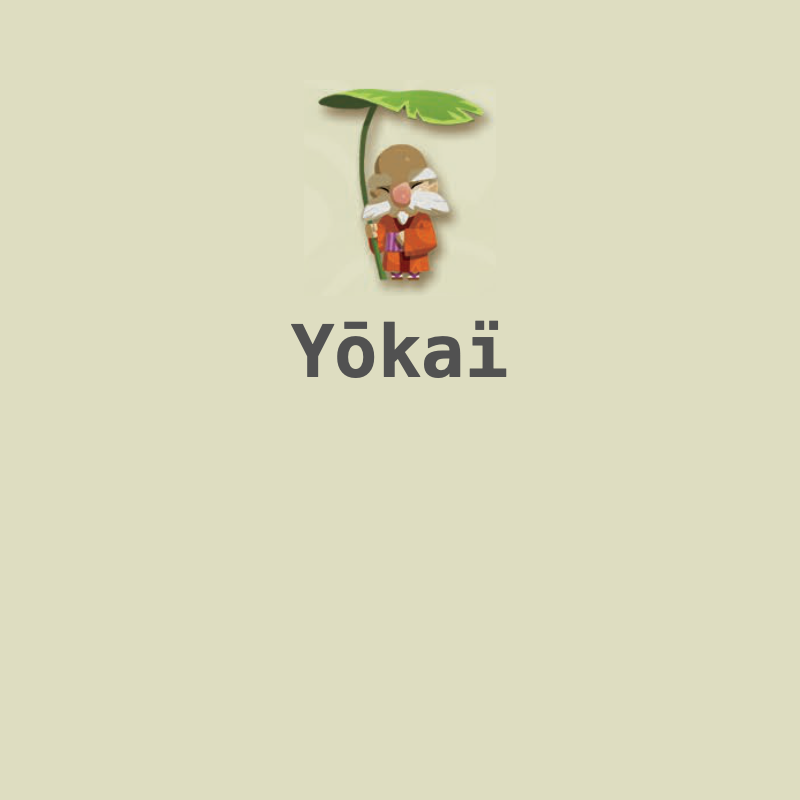
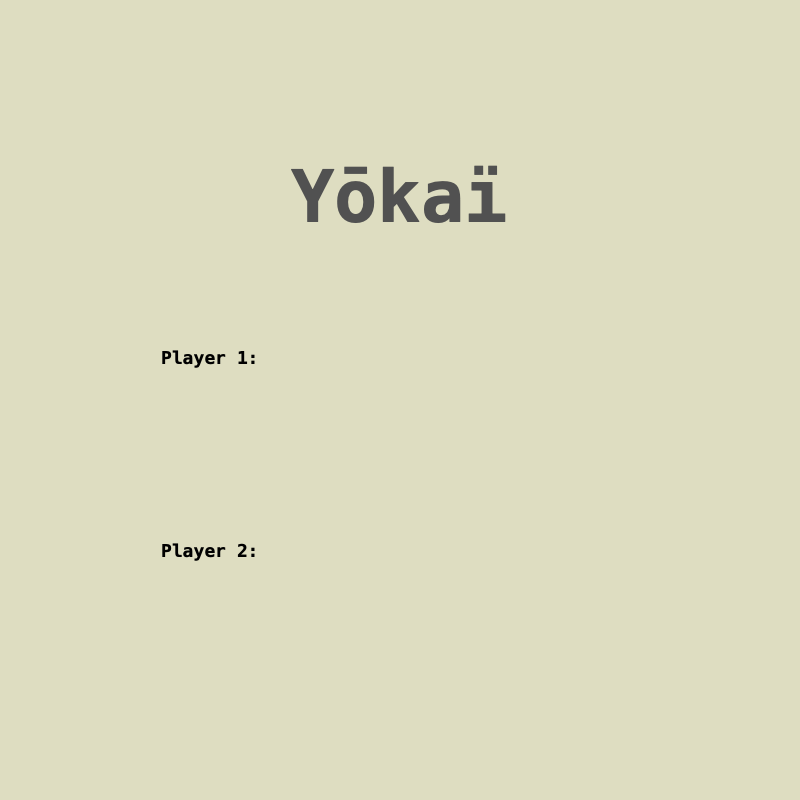
Fleshing out intro widgets

diff --git a/src/view_intro.rs b/src/view_intro.rs
@@ -1,6 +1,7 @@
 // ViewIntro
 // The intro/title view.
 
+use std::collections::HashMap;
 use std::sync::mpsc;
 use std::sync::mpsc::Receiver;
 use std::sync::mpsc::Sender;
@@ -15,8 +16,16 @@ use crate::widget_message::WidgetMessage;
 use crate::widget_slider::*;
 
 const TITLE_CORNER: (f32, f32) = (0., 0.);
-const START_CORNER: (f32, f32) = (675., 730.);
-const EXIT_CORNER: (f32, f32) = (25., 730.);
+const START_CORNER: (f32, f32) = (680., 745.);
+const START_ID: usize = 0;
+const EXIT_CORNER: (f32, f32) = (20., 745.);
+const EXIT_ID: usize = 1;
+const HUMAN_1_CORNER: (f32, f32) = (295., 340.);
+const HUMAN_1_ID: usize = 2;
+const MINIMAX_1_CORNER: (f32, f32) = (395., 340.);
+const MINIMAX_1_ID: usize = 3;
+const MONTE_1_CORNER: (f32, f32) = (515., 340.);
+const MONTE_1_ID: usize = 4;
 
 pub enum ViewIntroMessage {
     ShouldStart,
@@ -30,24 +39,19 @@ pub struct ViewIntro {
     widget_tx: Sender<WidgetMessage>, // copy given to widgets
     widget_rx: Receiver<WidgetMessage>,
 
-    title_tex: Texture2D,
-    start_button: Button,
-    exit_button: Button,
+    background_tex: Texture2D,
+    buttons: HashMap<usize, Button>,
     slider: Slider,
 }
 
 impl ViewIntro {
     pub async fn new(tx: Sender<ViewIntroMessage>) -> Self {
         let (widget_tx, widget_rx) = mpsc::channel();
-
-        let start_tex = AssetLoader::get_texture("start");
-        let exit_tex = AssetLoader::get_texture("exit");
         
         Self {
             tx, widget_tx, widget_rx,
-            title_tex: AssetLoader::get_texture("title"),
-            start_button: Button::new(START_CORNER, start_tex, ButtonMode::Push, 1),
-            exit_button: Button::new(EXIT_CORNER, exit_tex, ButtonMode::Push, 2),
+            background_tex: AssetLoader::get_texture("title"),
+            buttons: HashMap::new(),
 
             slider: Slider::new(
                 (300., 600.), 
@@ -60,8 +64,35 @@ impl ViewIntro {
     }
 
     pub fn prepare(&mut self) {
-        self.start_button.tx = Some(self.widget_tx.clone());
-        self.exit_button.tx = Some(self.widget_tx.clone());
+        let mut texture;
+        let mut button;
+
+        texture = AssetLoader::get_texture("start");
+        button = Button::new(START_CORNER, texture, ButtonMode::Push, START_ID);
+        self.buttons.insert(START_ID, button);
+
+        texture = AssetLoader::get_texture("exit");
+        button = Button::new(EXIT_CORNER, texture, ButtonMode::Push, EXIT_ID);
+        self.buttons.insert(EXIT_ID, button);
+
+        texture = AssetLoader::get_texture("human");
+        button = Button::new(HUMAN_1_CORNER, texture, ButtonMode::Radio, HUMAN_1_ID);
+        self.buttons.insert(HUMAN_1_ID, button);
+
+        texture = AssetLoader::get_texture("minimax");
+        button = Button::new(MINIMAX_1_CORNER, texture, ButtonMode::Radio, MINIMAX_1_ID);
+        self.buttons.insert(MINIMAX_1_ID, button);
+
+        texture = AssetLoader::get_texture("monte_carlo");
+        button = Button::new(MONTE_1_CORNER, texture, ButtonMode::Radio, MONTE_1_ID);
+        self.buttons.insert(MONTE_1_ID, button);
+
+
+        for button in self.buttons.values_mut() {
+            button.color = LIGHTGRAY;
+            button.tx = Some(self.widget_tx.clone());
+        }
+
         self.slider.tx = Some(self.widget_tx.clone());
         self.slider.tick_divisions = 8;
         self.slider.snap_to_tick = true;
@@ -73,8 +104,9 @@ impl ViewIntro {
             self.tx.send(ViewIntroMessage::ShouldExit).expect("Intro message send error.");
         }
         // Widgets. They may send messages.
-        self.start_button.process_events();
-        self.exit_button.process_events();
+        for button in self.buttons.values_mut() {
+            button.process_events();
+        }
         self.slider.process_events();
     }
 
@@ -83,15 +115,35 @@ impl ViewIntro {
         if received.is_ok() {
             match received.unwrap() {
                 WidgetMessage::Pushed(id) => {
-                    if id == self.start_button.id {
-                        self.tx.send(ViewIntroMessage::ShouldStart).expect("Intro message send error.");
-                    }
-                    if id == self.exit_button.id {
-                        self.tx.send(ViewIntroMessage::ShouldExit).expect("Intro message send error.");
+                    match id {
+                        START_ID => {
+                            self.tx.send(ViewIntroMessage::ShouldStart).expect("Intro message send error.");
+                        },
+                        EXIT_ID => {
+                            self.tx.send(ViewIntroMessage::ShouldExit).expect("Intro message send error.");
+                        }
+                        _ => {},
                     }
                 },
                 WidgetMessage::Toggled(id) => {
                     println!("toggled id: {}", id);
+                }
+                WidgetMessage::Selected(id) => {
+                    match id {
+                        HUMAN_1_ID => {
+                            self.buttons.get_mut(&MINIMAX_1_ID).unwrap().is_selected = false;
+                            self.buttons.get_mut(&MONTE_1_ID).unwrap().is_selected = false;
+                        }
+                        MINIMAX_1_ID => {
+                            self.buttons.get_mut(&HUMAN_1_ID).unwrap().is_selected = false;
+                            self.buttons.get_mut(&MONTE_1_ID).unwrap().is_selected = false;
+                        }
+                        MONTE_1_ID => {
+                            self.buttons.get_mut(&HUMAN_1_ID).unwrap().is_selected = false;
+                            self.buttons.get_mut(&MINIMAX_1_ID).unwrap().is_selected = false;
+                        }
+                        _ => {},
+                    }
                 }
                 WidgetMessage::ValueChanged(id, val) => {
                     println!("slider id: {}, new value: {}", id, val);
@@ -102,11 +154,12 @@ impl ViewIntro {
 
     pub fn draw(&mut self) {
         // Background
-        clear_background(Color::from_rgba(81, 81, 81, 255));
-        draw_texture(self.title_tex, TITLE_CORNER.0, TITLE_CORNER.1, WHITE);
+        clear_background(Color::from_rgba(222, 222, 193, 255));
+        draw_texture(self.background_tex, TITLE_CORNER.0, TITLE_CORNER.1, WHITE);
         // Widgets
-        self.start_button.draw();
-        self.exit_button.draw();
+        for button in self.buttons.values_mut() {
+            button.draw();
+        }
         self.slider.draw();
     }
 

diff --git a/src/widget_button.rs b/src/widget_button.rs
@@ -12,6 +12,7 @@ use crate::widget_message::WidgetMessage::*;
 pub enum ButtonMode {
     Push,
     Toggle,
+    Radio,
 }
 
 pub struct Button {
@@ -58,7 +59,7 @@ impl Button {
             disabled_texture: None,
             selected_texture: None,
             color: WHITE,
-            disabled_color: Some(DARKGRAY),
+            disabled_color: Some(GRAY),
             selected_color: Some(YELLOW),
             draw_params,
             z_order: 0,
@@ -120,6 +121,16 @@ impl Button {
                     if let Some(sender) = &self.tx {
                         sender.send(Toggled(self.id)).expect("Button message send error.");
                     }
+                }
+            },
+            ButtonMode::Radio => {
+                if self.is_mouse_over && button_released {
+                    if !self.is_selected {
+                        if let Some(sender) = &self.tx {
+                            sender.send(Selected(self.id)).expect("Button message send error.");
+                        }
+                    }
+                    self.is_selected = true;
                 }
             },
         }

diff --git a/src/asset_loader.rs b/src/asset_loader.rs
@@ -18,6 +18,9 @@ impl AssetLoader {
             "start" => Texture2D::from_file_with_format(include_bytes!("../assets/start.png"),None,),
             "rules" => Texture2D::from_file_with_format(include_bytes!("../assets/rules.png"),None,),
             "exit" => Texture2D::from_file_with_format(include_bytes!("../assets/exit.png"),None,),
+            "human" => Texture2D::from_file_with_format(include_bytes!("../assets/human.png"),None,),
+            "minimax" => Texture2D::from_file_with_format(include_bytes!("../assets/minimax.png"),None,),
+            "monte_carlo" => Texture2D::from_file_with_format(include_bytes!("../assets/monte_carlo.png"),None,),
             // view board
             "square" => Texture2D::from_file_with_format(include_bytes!("../assets/square.png"),None,),
             "line" => Texture2D::from_file_with_format(include_bytes!("../assets/line.png"),None,),

diff --git a/src/widget_message.rs b/src/widget_message.rs
@@ -5,5 +5,6 @@
 pub enum WidgetMessage {
     Pushed(usize),
     Toggled(usize),
+    Selected(usize),
     ValueChanged(usize, f32),
 }
